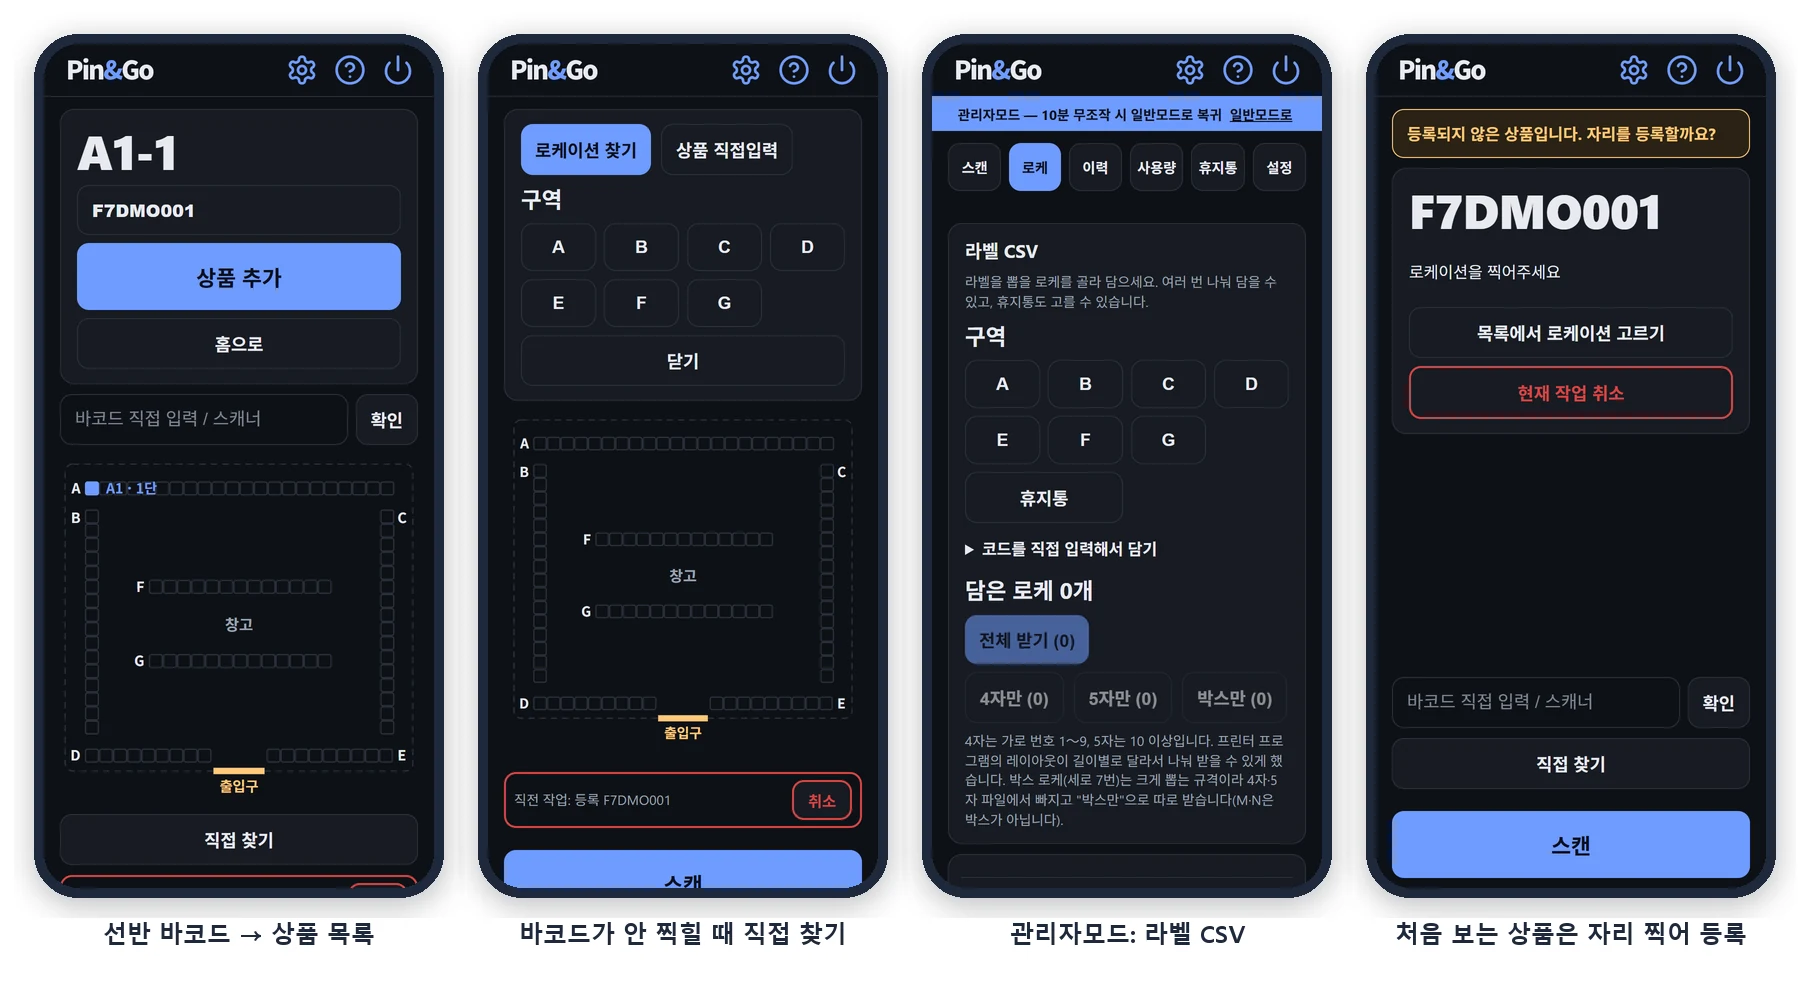
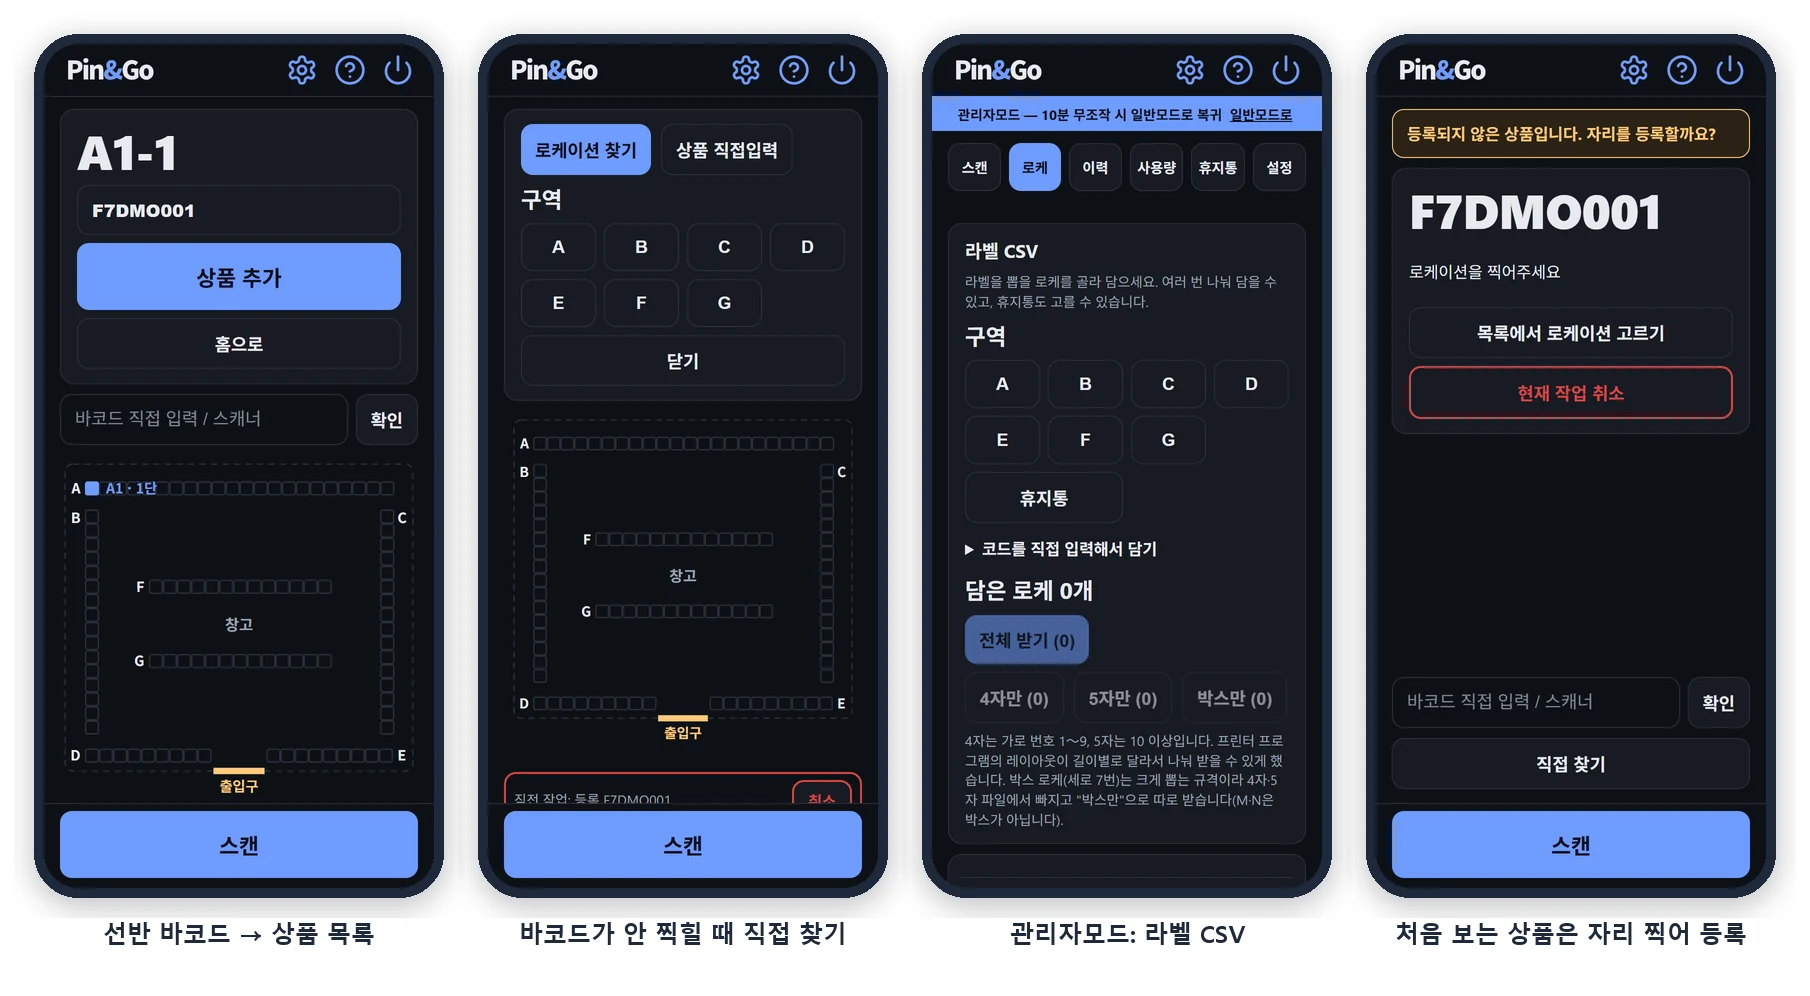
docs: README 최신화(휴지통 표기·전산화 비용, 낡은 한계·결정 항목 정리), 화면 다시 촬영

Changed region(s): [[0.2785, 0.8092, 0.495, 0.9026], [0.0309, 0.8092, 0.2475, 0.9026]]

diff --git a/README.md b/README.md
@@ -20,7 +20,7 @@
 
 ## 문제와 접근
 
-- **문제**: 본사 차원의 매장별 실재고 관리 지원이 없어 매장 백룸의 *선반 위치*는 관리되지 않는다. 현장은 수기 메모지·기억·엑셀로 버티고, 상품 하나 찾는 데 오래 걸린다(보통 3〜4분, 10분 이상 걸리거나 못 찾는 경우도 있음).
+- **문제**: 본사 차원의 매장별 실재고 관리 지원이 없어 매장 백룸의 *선반 위치*는 관리되지 않는다. 현장은 수기 메모지·기억·엑셀로 버티고, 상품 하나 찾는 데 오래 걸린다(보통 3〜4분, 10분 이상 걸리거나 못 찾는 경우도 있음). 바코드 전산화는 PDA 한 대당 70〜100만 원에 앱 사용료 또는 개발비, 프린터와 바코드 라벨 출력·부착, 상품 바코드 인식 작업까지 필요해 매장이 혼자 해결하기 어렵다.
 - **조건**: 사용자는 디지털 기기에 익숙하지 않은 직원 포함. 전용 PDA 없이 직원 폰·공기계로 쓰고, 백룸은 신호가 약하다. 소프트웨어 운영비는 최소여야 한다.
 - **접근**
   - 선반 칸마다 바코드 라벨을 붙이고, 상품 바코드를 그 칸에 연결해 둔다.
@@ -55,7 +55,7 @@
 | 영역 | 내용 |
 |---|---|
 | 조회·등록 | 상품 스캔 → 위치와 미니맵, 처음 보는 상품은 자리를 찍어 등록, 선반 스캔 → 그 자리의 상품 목록 |
-| 변경 | 자리 추가(복사) · 자리 변경(이동) · 삭제(복구 가능) · 복구, 직전 작업 10분 안 취소 |
+| 변경 | 자리 추가(복사) · 자리 변경(이동) · 휴지통으로 · 복구, 직전 작업 10분 안 취소 |
 | 못 찍을 때 | 구역 → 가로 → 세로로 직접 찾기, 상품 직접 입력 |
 | 오프라인 | 마지막 동기화 데이터로 조회, 변경은 기기 대기열에 쌓았다가 연결되면 자동 반영 |
 | 관리자모드 | 로케 일괄 생성, 길이별 라벨 CSV, 이력 선택 롤백, 휴지통 검토·영구삭제, 사용량 통계, 백업, 도면 편집(끌어서 놓기) |
@@ -190,10 +190,8 @@
 
 ## 만들면서 바꾼 결정
 
-- **풀코드를 한 칸에 덮어쓰던 구조 → 풀코드 이력 표(`product_variants`)**: 상품 키(바코드 일부)만 쓰다 보니 색·사이즈별 풀코드가 사라져 복구할 수 없었다. 찍힌 풀코드를 한 줄씩 쌓는 표를 더해 원본 값을 잃지 않게 했다.
 - **"삭제"를 지우기에서 보관으로**: 시스템 자동 삭제 없이 `X0-0`(휴지통)으로 옮기고, 영구삭제는 관리자 비밀번호와 "영구삭제 12개" 문구를 똑같이 치게 한다.
-- **비밀번호 입력칸의 브라우저 자동완성**: 계정 비밀번호가 채워지거나 저장 요청이 뜨는 문제가 있어 로그인 외의 비밀번호 칸은 `type="password"`를 쓰지 않고 마스킹 스타일로 처리했다.
-- **보류한 개선**: 프레임마다 영상을 돌려 읽어 대각선 바코드를 읽는 방안은 합성 시험에서 가짜 판독 0/600장이었지만 실기기 속도와 이웃 바코드 영향을 확인하지 못해 적용하지 않았다.
+- **적용하지 않은 개선**: 프레임마다 영상을 돌려 읽어 대각선 바코드를 읽는 방안은 합성 시험에서 가짜 판독이 0/600장이었지만 실기기 속도와 이웃 바코드 영향을 확인하지 못해 하지 않기로 했다.
 
 ---
 
@@ -201,7 +199,7 @@
 
 - 아이폰 사파리·홈 화면 앱에서 카메라 1080p 요청이 적용되는지 실기기 확인이 남아 있다.
 - 오프라인 대기열 변경의 이력 시각 한계(위 설명).
-- 개발자 계정은 로컬 DB 시험을 통과했고 1단계는 실서버(Supabase)에 적용했다. 로그인만으로 조회하고 키로 쓰는 2단계와 요청 머리글·읽기 전용 동작은 실서버에서 확인하는 일이 남아 있다.
+- 개발자 계정은 로그인 비밀번호 하나가 모든 매장의 읽기 권한이 되는 위험을 감수했다. 길고 고유한 비밀번호, 폰 화면 잠금, 분실 시 비밀번호·개발자 키 교체로 줄이며, 쓰기는 개발자 키로 15분만 켜진다.
 - 매장 온보딩 마법사(현재는 개발자가 스크립트로 새 매장을 만든다), 결제 연동은 범위 밖으로 남겨 두었다.
 
 ---
